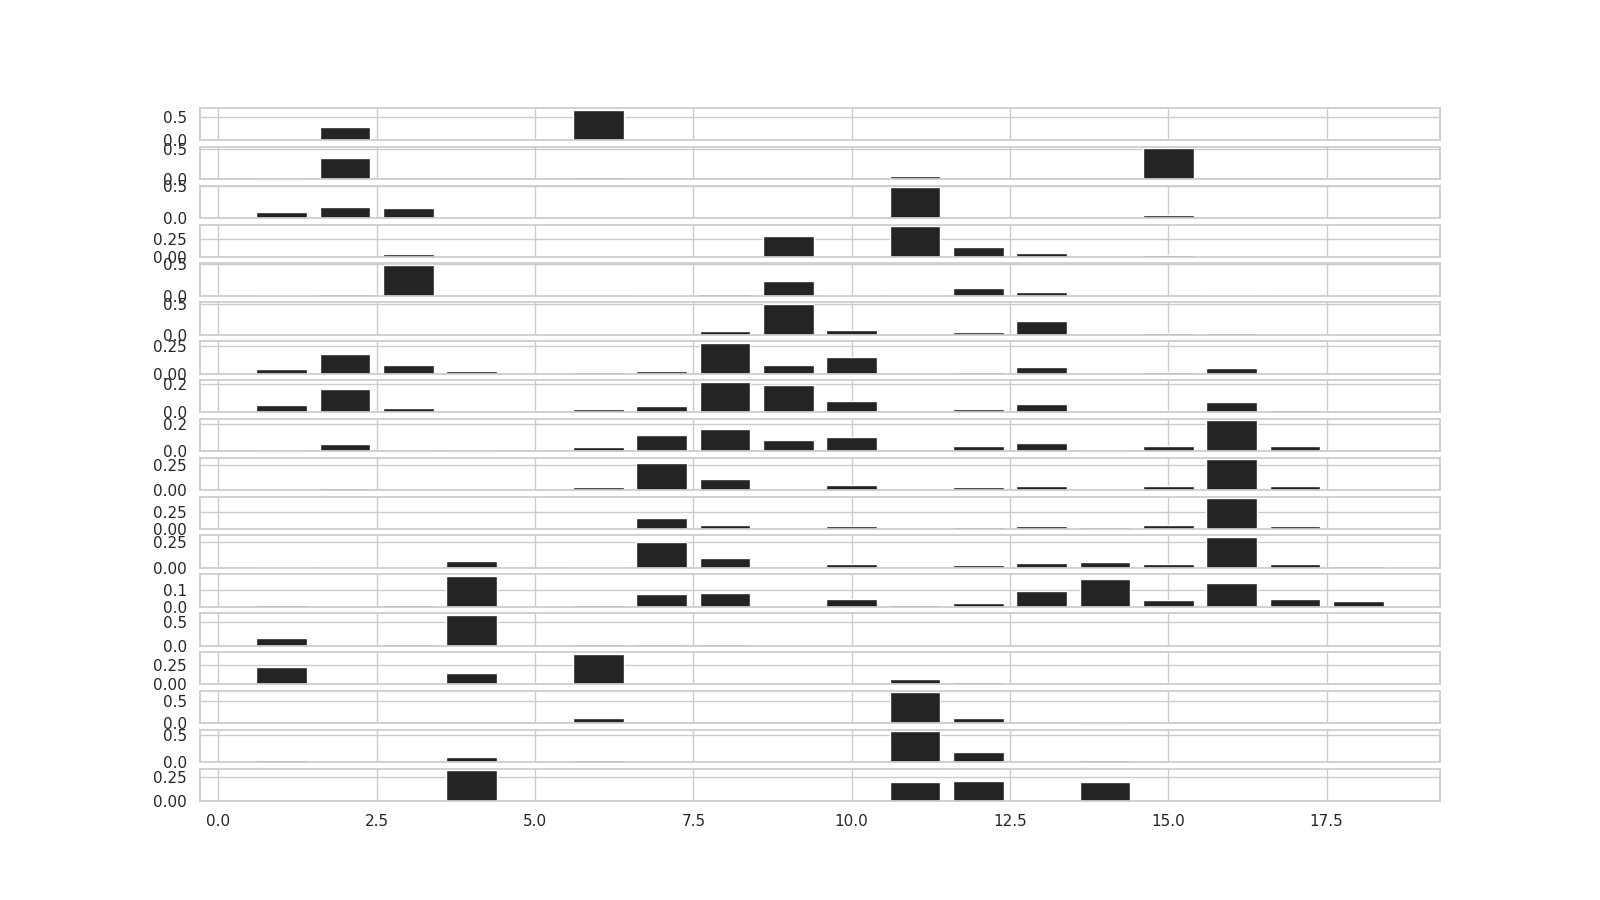
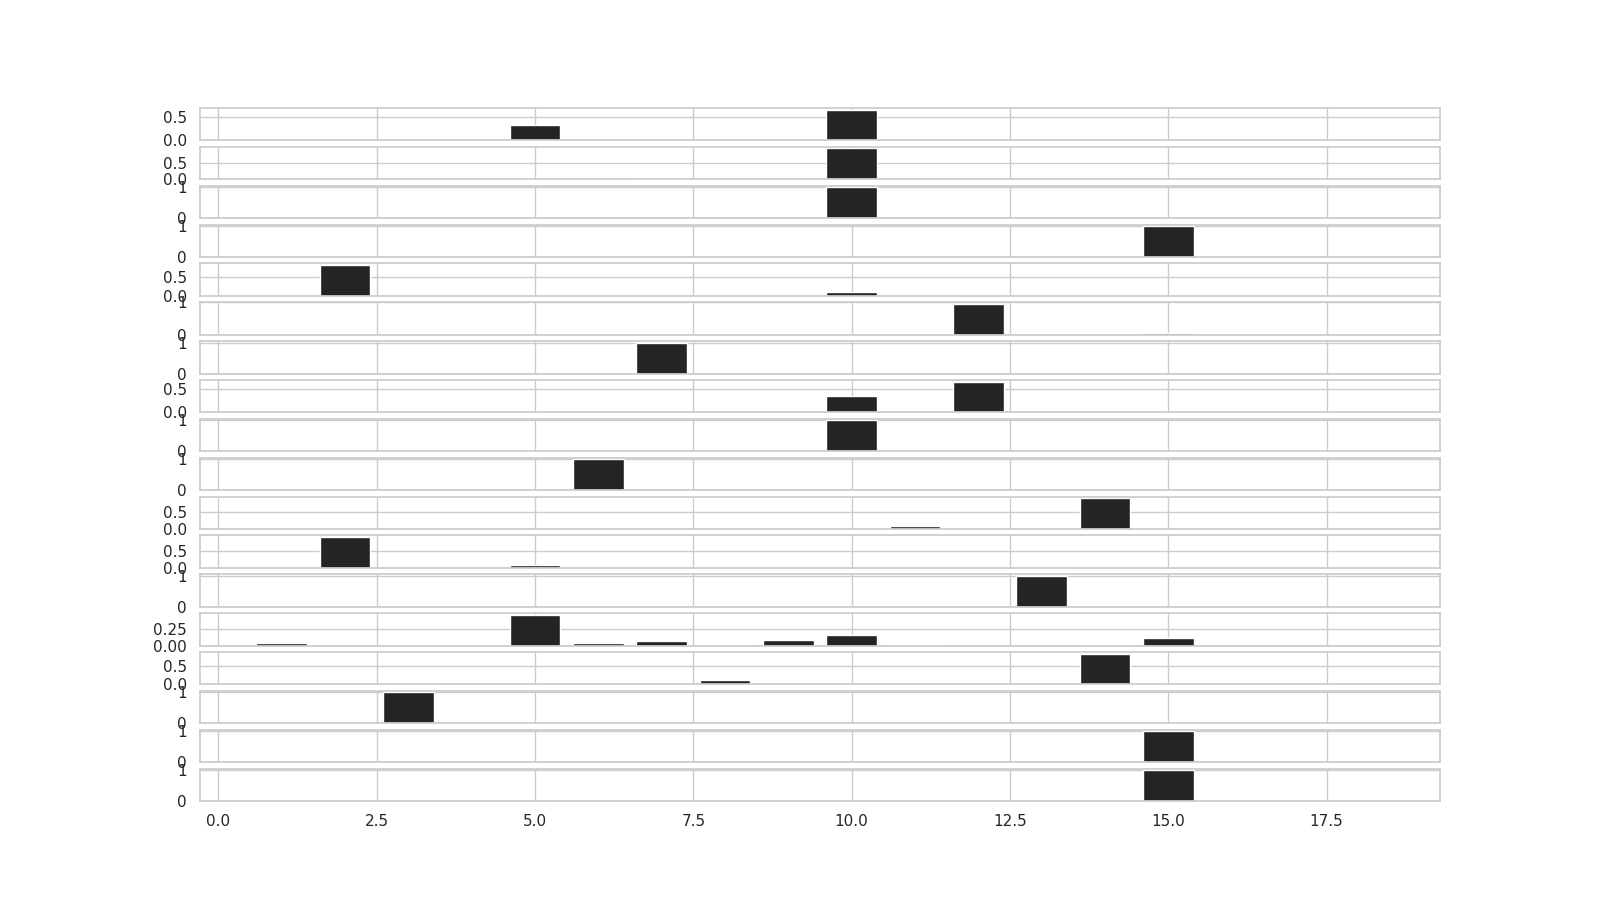
add: マルチタスクモデルを実装
・10000エポックで学習

diff --git a/bilstm_model.py b/bilstm_model.py
@@ -2,7 +2,7 @@ import keras
 from keras.preprocessing import sequence
 from keras.models import Model
 from keras.models import save_model, load_model
-from keras.layers import Input, Embedding, LSTM, Dense, Concatenate
+from keras.layers import Input, Embedding, LSTM, Dense, Concatenate, Masking
 from keras.layers import TimeDistributed, Bidirectional
 from keras.utils import plot_model
 from keras import backend as K
@@ -10,6 +10,7 @@ import tensorflow as tf
 from tensorflow.python import debug as tf_debug
 from tensorflow.python.debug.lib.debug_data import has_inf_or_nan
 from tensorflow.keras.backend import eval
+from sklearn.model_selection import train_test_split
 
 import re
 import sys
@@ -27,10 +28,10 @@ import seaborn as sns
 from scraper import load_race_data, fetch_predicting_data
 
 # Hyper parameters
-input_dim = 17
+input_dim = 15
 output_dim = 18
 n_hidden = 1024
-epochs = 100
+epochs = 10000
 batch_size = 32
 maxlen = 18
 
@@ -56,22 +57,27 @@ class BidirectionalLSTMModel:
         # dec_dense = Dense(self.output_dim, activation='softmax', name='decoder_dense')
 
         inputs = Input(shape=(self.maxlen, self.input_dim), dtype='float32', name='inputs')
-        bilstm1 = Bidirectional(LSTM(self.n_hidden, return_sequences=True, activation='tanh', name='bilstm1'),
-                                                    input_shape=(self.maxlen, self.input_dim))(inputs)
-        bilstm2 = Bidirectional(LSTM(self.n_hidden, return_sequences=True, activation='tanh', name='bilstm1'),
-                               input_shape=(self.maxlen, self.input_dim))(bilstm1)
-        bilstm3 = Bidirectional(LSTM(self.n_hidden, return_sequences=True, activation='tanh', name='bilstm1'),
-                               input_shape=(self.maxlen, self.input_dim))(bilstm2)
+        mask = Masking(mask_value=-1.0, input_shape=(self.maxlen, self.input_dim))(inputs)
+        bilstm1 = Bidirectional(LSTM(self.n_hidden, return_sequences=True, activation='relu', name='bilstm1'),
+                                                    input_shape=(self.maxlen, self.input_dim))(mask)
+        # bilstm2 = Bidirectional(LSTM(self.n_hidden, return_sequences=True, activation='relu', name='bilstm2'),
+        #                        input_shape=(self.maxlen, self.input_dim))(bilstm1)
+        # bilstm3 = Bidirectional(LSTM(self.n_hidden, return_sequences=True, activation='relu', name='bilstm3'),
+        #                        input_shape=(self.maxlen, self.input_dim))(bilstm2)
         # state_h = Concatenate()([f_h, b_h])
         # state_c = Concatenate()([f_c, b_c])
         # bilstm = Bidirectional(LSTM(self.n_hidden, activation='tanh', name='bilstm2'))(state_h)
-        dense = TimeDistributed(Dense(self.output_dim, activation='softmax', name='dense'),
-                                input_shape=(self.maxlen, self.n_hidden))(bilstm3)
+        o_dense = TimeDistributed(Dense(self.output_dim, activation='softmax', name='o_dense'),
+                                  input_shape=(self.maxlen, self.n_hidden))(bilstm1)
+        t_dense = TimeDistributed(Dense(1, activation='linear', name='t_dense'),
+                                input_shape=(self.maxlen, self.n_hidden))(bilstm1)
 
-        model = Model(inputs=inputs, outputs=dense)
+        model = Model(inputs=inputs, outputs=[o_dense, t_dense])
 
-        adam = tf.keras.optimizers.Adam(lr=1e-3, beta_1=0.9, beta_2=0.999, epsilon=None, decay=0.1, amsgrad=False)
-        model.compile(loss='categorical_crossentropy',
+        sgd = keras.optimizers.SGD(lr=0.01, decay=1e-6, momentum=0.9, nesterov=True)
+        adam = tf.keras.optimizers.Adam(lr=1e-4, beta_1=0.9, beta_2=0.999, epsilon=None, decay=0.0, amsgrad=False)
+        model.compile(loss=(['categorical_crossentropy', 'mean_squared_error']),
+                      loss_weights=([0.7, 0.3]),
                       optimizer=adam,
                       metrics=['accuracy'])
         return model
@@ -170,15 +176,17 @@ class BidirectionalLSTMModel:
     # return one_hot
 
 
-def load(maxlen, n_feature=17):
-    list_score_and_racehead, list_arrival_order = load_race_data()
+def load():
+    list_score_and_racehead, list_arrival_order, list_time = load_race_data()
     # labels = arrival_order_to_one_hot(list_arrival_order, 18)
 
     list_sr = []
     for score_and_racehead in list_score_and_racehead:
         score_and_racehead = np.array(score_and_racehead)
         if score_and_racehead.shape[0] < maxlen:
-            zero_vecs = np.zeros((1, n_feature))
+            zero_vecs = np.zeros((1, input_dim))
+            zero_vecs -= 1.0
+
             for i in range(maxlen - len(score_and_racehead)):
                 # print(score_and_racehead.shape, zero_vecs.shape)
                 score_and_racehead = np.vstack((score_and_racehead, zero_vecs))
@@ -186,56 +194,77 @@ def load(maxlen, n_feature=17):
         list_sr.append(score_and_racehead)
         print(score_and_racehead.shape)
 
-    list_label = []
+    list_label_o = []
     for arrival_order in list_arrival_order:
         try:
-            label = np.eye(maxlen, dtype=np.float32)[[a-1 for a in arrival_order]]
+            label = np.eye(maxlen, dtype=np.float32)[[a - 1 for a in arrival_order]]
         except IndexError as e:
             raise
+
         if label.shape[0] < maxlen:
             for i in range(maxlen - label.shape[0]):
                 zero_label = np.zeros(maxlen)
+                zero_label -= 1.0
                 label = np.vstack((label, zero_label))
-        list_label.append(label)
+        list_label_o.append(label)
+
+    list_label_t = []
+    for time in list_time:
+        if len(time) < maxlen:
+            for i in range(maxlen - len(time)):
+                time.append(-1.0)
+        time = np.array([[t] for t in time], np.float32)
+        list_label_t.append(time)
 
     # shuffle each race information including max to 18 horses
-    assert len(list_sr) == len(list_label)
-    for i in range(len(list_sr)):
-        seed = np.random.randint(1, 100)
-        np.random.seed(seed)
-        np.random.shuffle(list_sr[i])
-        np.random.seed(seed)
-        np.random.shuffle(list_label[i])
+    assert len(list_sr) == len(list_label_o) == len(list_label_t)
+    # for i in range(len(list_sr)):
+    #     tmp_list = zip(list_sr[i], list_label_o[i], list_label_t[i])
+    #     sorted(tmp_list, key=lambda x: x[1], reverse=True)
+    #     list_sr[i], list_label_o[i], list_label_t[i] = zip(*tmp_list)
+    #
+    #     seed = np.random.randint(1, 100)
+    #     np.random.seed(seed)
+    #     np.random.shuffle(list_sr[i])
+    #     np.random.seed(seed)
+    #     np.random.shuffle(list_label_o[i])
+    #     np.random.seed(seed)
+    #     np.random.shuffle(list_label_t[i])
+
 
     train_x = np.array(list_sr, dtype=np.float32)
-    train_y = np.array(list_label, dtype=np.float32)
+    train_yo = np.array(list_label_o, dtype=np.float32)
+    train_yt = np.array(list_label_t, dtype=np.float32)
 
     print(train_x.shape)
-    print(train_y.shape)
+    print(train_yo.shape)
+    print(train_yt.shape)
 
-    for i in range(train_x.shape[0]):
-        for j in range(train_x.shape[1]):
-            for k in range(train_x.shape[2]):
-                if np.isnan(train_x[i,j,k]):
-                    print(i, j, train_x[i,j])
-                if np.isinf(train_x[i,j,k]):
-                    print(i, j, train_x[i, j])
+    # DEBUG
+    # for i in range(train_x.shape[0]):
+    #     for j in range(train_x.shape[1]):
+    #         for k in range(train_x.shape[2]):
+    #             if np.isnan(train_x[i,j,k]):
+    #                 print(i, j, train_x[i,j])
+    #             if np.isinf(train_x[i,j,k]):
+    #                 print(i, j, train_x[i, j])
                 # print(np.isinf(train_x[i,j]))
             # print(train_x[i,j])
-    print(np.isinf(train_y))
+    # print(np.isinf(train_y))
 
-    return train_x, train_y
+    return train_x, train_yo, train_yt
 
-def train(train_x, train_y, maxlen, model_name):
+def train(train_x, train_yo, train_yt, model_name=''):
     print("train_x", train_x.shape)
-    print("train_y", train_y.shape)
+    print("train_yo", train_yo.shape)
+    print("train_yt", train_yt.shape)
 
     BLM = BidirectionalLSTMModel(maxlen=maxlen,
                                  input_dim=input_dim,
                                  output_dim=output_dim,
                                  n_hidden=n_hidden)
     model = BLM.build_model()
-    result = model.fit(train_x, train_y, batch_size=batch_size, epochs=epochs, verbose=1)
+    result = model.fit(train_x, [train_yo, train_yt], batch_size=batch_size, epochs=epochs, verbose=1)
 
     plot_model(model, show_shapes=True, to_file='{}.png'.format(model_name))
     save_model(model, '{}.h5'.format(model_name))
@@ -243,7 +272,7 @@ def train(train_x, train_y, maxlen, model_name):
     return model, result
 
 
-def predict(model_name, input_dim):
+def predict(model_name):
     model = load_model('{}.h5'.format(model_name))
     url = 'https://keiba.yahoo.co.jp/race/result/2005020811/'
 
@@ -268,11 +297,11 @@ def predict(model_name, input_dim):
 
     if test_x.shape[0] < maxlen:
         for i in range(maxlen - test_x.shape[1]):
-            zero_label = np.array([[[0] * input_dim]])  # input_dim = 17
+            zero_label = np.array([[[0] * input_dim]])
             test_x = np.append(test_x, zero_label, axis=1)
 
-    y = model.predict(test_x, batch_size=1, verbose=0, steps=None)
-    return y
+    yo, yt = model.predict(test_x, batch_size=1, verbose=0, steps=None)
+    return yo, yt
 
 
 # FIXME: TF2.0以上ではsessionがないため使えない
@@ -292,7 +321,7 @@ if __name__ == '__main__':
             pass
 
     # Load
-    train_x, train_y = load(maxlen)
+    train_x, train_yo, train_yt = load()
 
     cur_dir = Path.cwd()
     model_dir = cur_dir / 'models'
@@ -300,9 +329,13 @@ if __name__ == '__main__':
 
     if is_train:
         # Train
-        model, result = train(train_x, train_y, maxlen, model_path)
+        model, result = train(train_x, train_yo, train_yt, model_path)
 
-        plt.plot(range(1, epochs + 1), result.history['accuracy'], label="training")
+        print(model.metrics_names)
+        print(result.history.keys())  # ヒストリデータのラベルを見てみる
+
+        plt.plot(range(1, epochs + 1), result.history['time_distributed_1_accuracy'], label="training_order")
+        plt.plot(range(1, epochs + 1), result.history['time_distributed_2_accuracy'], label="training_time")
         # plt.plot(range(1, epochs + 1), result.history['val_acc'], label="validation")
         plt.xlabel('Epochs')
         plt.ylabel('Accuracy')
@@ -312,10 +345,12 @@ if __name__ == '__main__':
 
     # else:
         # Infer
-        y = predict(model_path, input_dim=17)
-        print(y.shape)
+        yo, yt = predict(model_path)
+        print(yo.shape)
+        print(yt.shape)
         np.set_printoptions(suppress=True, precision=5)
-        print(y)
+        print(yo)
+        print(yt)
 
         plt.style.use('default')
         sns.set()
@@ -326,7 +361,7 @@ if __name__ == '__main__':
         fig = plt.figure(figsize=(16.0, 9.0))
 
         for i in range(maxlen):
-            d1 = np.array(y[0, i, :])
+            d1 = np.array(yo[0, i, :])
             ax1 = fig.add_subplot(maxlen, 1, i+1)
             ax1.bar(label, d1)
 

diff --git a/scraper.py b/scraper.py
@@ -388,6 +388,7 @@ def parse_arrival_order(data):
 def load_race_data():
     list_score_and_racehead = []
     list_arrival_order = []
+    list_time = []
 
     current_dir = Path.cwd()
     results_fir = current_dir / 'results'
@@ -396,9 +397,10 @@ def load_race_data():
     # jsonファイルを全読み込み
     for json_file in json_files:
         data_dict = load_json_as_dict(json_file)
-        score_and_racehead, arrival_orders = parse_loaded_data(data_dict)
+        score_and_racehead, arrival_orders, times = parse_loaded_data(data_dict)
         list_score_and_racehead.append(score_and_racehead)
         list_arrival_order.append(arrival_orders)
+        list_time.append(times)
         # todo: delete
         print("{}: {}".format(json_file, str(len(score_and_racehead))), end="")
         for sr in score_and_racehead:
@@ -406,7 +408,18 @@ def load_race_data():
 
     # pprint(list_score_and_racehead)
     # pprint(list_arrival_order)
-    return list_score_and_racehead, list_arrival_order
+    return list_score_and_racehead, list_arrival_order, list_time
+
+
+# def load_time():
+#     list_time = []
+#
+#     current_dir = Path.cwd()
+#     results_fir = current_dir / 'results'
+#     json_files = results_fir.glob('*.json')
+#
+#
+#     return list_time
 
 
 def parse_loaded_data(data_dict):
@@ -422,7 +435,7 @@ def parse_loaded_data(data_dict):
         # "horse_b",
         # "arrival_diff",
         "time",
-        "last3f_time",
+        # "last3f_time",
         # "passing_order_1st",
         # "passing_order_2nd",
         # "passing_order_3rd",
@@ -455,6 +468,7 @@ def parse_loaded_data(data_dict):
                 flattened_dict = flatten_dict(s)
                 score_dict = {k_: v_ for k_, v_ in flattened_dict.items() if k_ in effective_score_labels}
                 score_dicts.append(score_dict)
+            score_dicts.sort(key=lambda x: x['horse_no'])
         elif k == 'racehead':
             flattened_dict = flatten_dict(v)
             racehead_dict = {k_: v_ for k_, v_ in flattened_dict.items() if k_ in effective_racehead_labels}
@@ -480,12 +494,15 @@ def parse_loaded_data(data_dict):
             racehead.append(v)
 
     arrival_orders = []
+    times = []
     for score_dict in score_dicts:
         # score
         score = []
         for k, v in score_dict.items():
             if k == 'arrival_order':
                 arrival_orders.append(parse_arrival_order(v))
+            elif k == 'time':
+                times.append(v)
             elif k == 'horse_sex':
                 score.append(parse_horse_sex(v))
             elif k == 'horse_weight_diff':
@@ -495,14 +512,14 @@ def parse_loaded_data(data_dict):
             else:
                 score.append(v)
         score_and_racehead.append(score + racehead)
-    return score_and_racehead, arrival_orders
+    return score_and_racehead, arrival_orders, times
 
 
 def fetch_predicting_data(url):
     scaraper = ResultScaraper()
     result_dict = fetch_result_site(scaraper, url)
 
-    score_and_racehead, _ = parse_loaded_data(result_dict)
+    score_and_racehead, _, _ = parse_loaded_data(result_dict)
     return score_and_racehead
 
 
